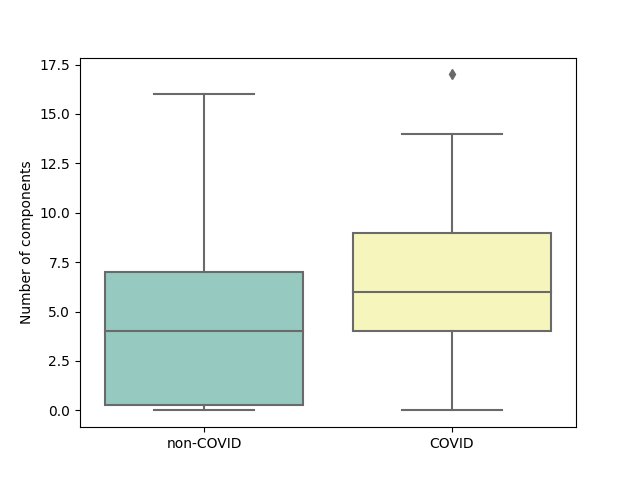
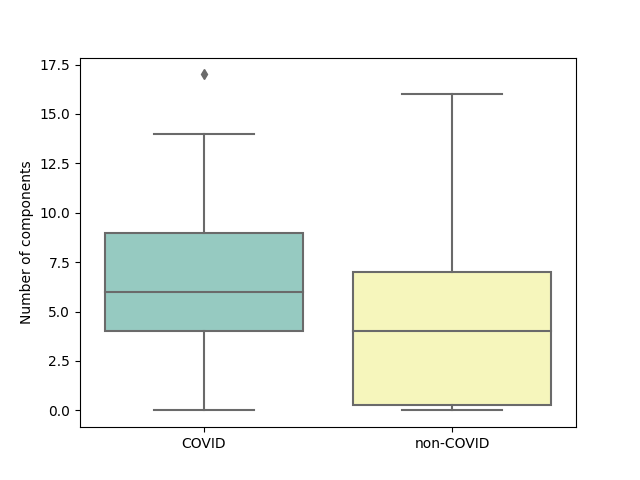
Reordered x-axis in component analysis

diff --git a/code/components_analysis.py b/code/components_analysis.py
@@ -58,10 +58,8 @@ def executeTTest(apps, components):
 def generateChart(apps, components):
     df = pd.DataFrame(apps)
     
-    #print(df.iloc[0, :])
-
-    plot = sns.boxplot(data=df, x="is_covid", y="componentNumber", palette="Set3")
-    plot.set_xticklabels(['non-COVID', 'COVID'])
+    plot = sns.boxplot(data=df, x="is_covid", y="componentNumber", palette="Set3", order=[True, False])
+    plot.set_xticklabels(['COVID', 'non-COVID'])
     plot.set(xlabel='', ylabel='Number of components')
     fig = plot.get_figure()
     fig.savefig(c.figures_path + 'componentNumber.png')
